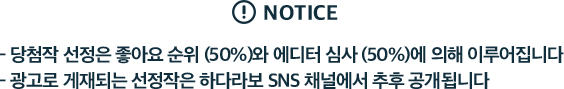
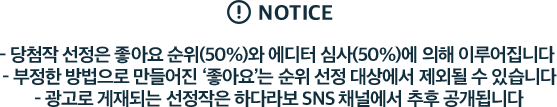
이미지 교체, css 수정

diff --git a/m/css/ui.css b/m/css/ui.css
@@ -86,7 +86,8 @@ img {
   position: absolute;
 }
 .content-image {
-  width: 282px;
+/*  width: 282px;*/
+  width: 320px;
   margin: 0 auto;
 }
 .popup-image {
@@ -756,7 +757,7 @@ img {
   box-shadow: 0 0 11px 6px rgba(113, 69, 59, 0.15);
 }
 .main-section--02 .product li {
-  width: 277px;
+  width: 275px;
   margin: 0 auto;
 }
 .main-section--02 .product li + li {
@@ -764,6 +765,9 @@ img {
 }
 .main-section--02 .product li img {
   width: 100%;
+}
+.main-section--02 .notice .content-image {
+	width: 278px;
 }
 .main-section--03 {
   position: relative;
